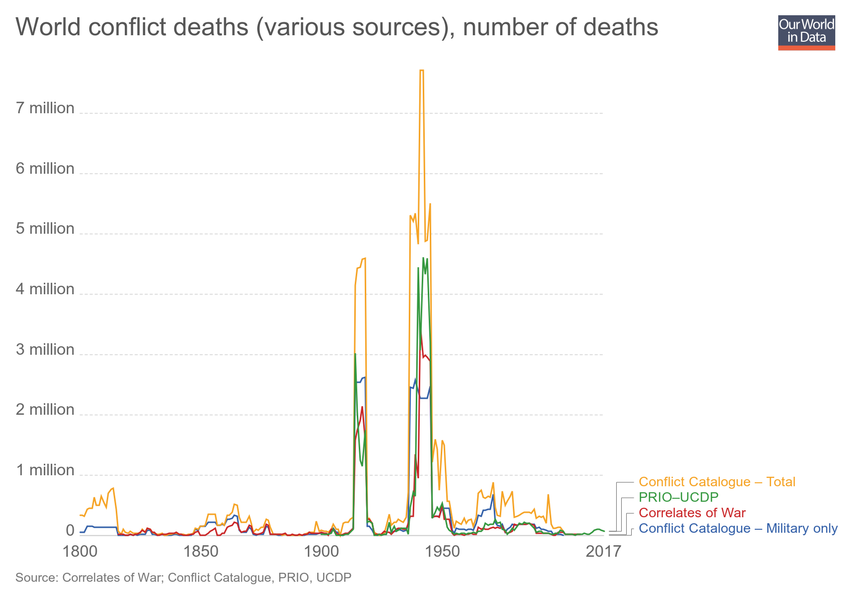
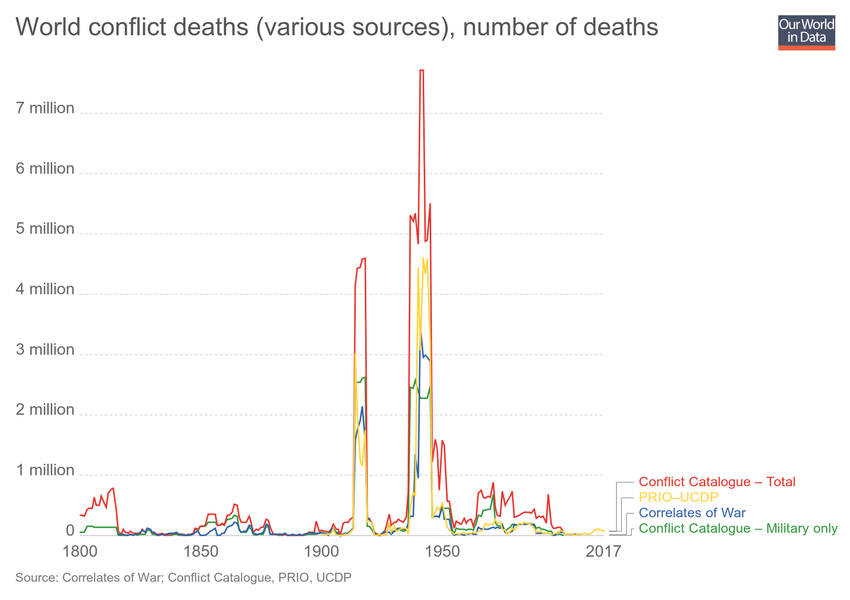
Updating chart world-conflict-deaths-various-sources

Changed region(s): [[0.0918, 0.12, 0.7035, 0.9], [0.7341, 0.78, 0.9788, 0.9]]

diff --git a/grapher/world-conflict-deaths-various-sources.html b/grapher/world-conflict-deaths-various-sources.html
@@ -1,4 +1,4 @@
-<!doctype html><html><head><meta name="viewport" content="width=device-width, initial-scale=1" /><title>World conflict deaths (various sources) - Our World in Data</title><meta name="description" content="An interactive visualization from Our World in Data." /><link rel="canonical" href="https://ourworldindata.org/grapher/world-conflict-deaths-various-sources" /><meta property="fb:app_id" content="1149943818390250" /><meta property="og:url" content="https://ourworldindata.org/grapher/world-conflict-deaths-various-sources" /><meta property="og:title" content="World conflict deaths (various sources)" /><meta property="og:description" content="An interactive visualization from Our World in Data." /><meta property="og:image" content="https://ourworldindata.org/grapher/exports/world-conflict-deaths-various-sources.png?v=3" /><meta property="og:image:width" content="850" /><meta property="og:image:height" content="600" /><meta property="og:site_name" content="Our World in Data" /><meta name="twitter:card" content="summary_large_image" /><meta name="twitter:site" content="@OurWorldInData" /><meta name="twitter:creator" content="@OurWorldInData" /><meta name="twitter:title" content="World conflict deaths (various sources)" /><meta name="twitter:description" content="An interactive visualization from Our World in Data." /><meta name="twitter:image" content="https://ourworldindata.org/grapher/exports/world-conflict-deaths-various-sources.png?v=3" /><style>
+<!doctype html><html><head><meta name="viewport" content="width=device-width, initial-scale=1" /><title>World conflict deaths (various sources) - Our World in Data</title><meta name="description" content="An interactive visualization from Our World in Data." /><link rel="canonical" href="https://ourworldindata.org/grapher/world-conflict-deaths-various-sources" /><meta property="fb:app_id" content="1149943818390250" /><meta property="og:url" content="https://ourworldindata.org/grapher/world-conflict-deaths-various-sources" /><meta property="og:title" content="World conflict deaths (various sources)" /><meta property="og:description" content="An interactive visualization from Our World in Data." /><meta property="og:image" content="https://ourworldindata.org/grapher/exports/world-conflict-deaths-various-sources.png?v=4" /><meta property="og:image:width" content="850" /><meta property="og:image:height" content="600" /><meta property="og:site_name" content="Our World in Data" /><meta name="twitter:card" content="summary_large_image" /><meta name="twitter:site" content="@OurWorldInData" /><meta name="twitter:creator" content="@OurWorldInData" /><meta name="twitter:title" content="World conflict deaths (various sources)" /><meta name="twitter:description" content="An interactive visualization from Our World in Data." /><meta name="twitter:image" content="https://ourworldindata.org/grapher/exports/world-conflict-deaths-various-sources.png?v=4" /><style>
         html, body {
             height: 100%;
             margin: 0;
@@ -20,8 +20,8 @@
         }
     </style><noscript><style>
                     figure { display: none !important; }
-                </style></noscript><link rel="stylesheet" href="https://ourworldindata.org/grapher/assets/commons.bundle.397229a8467cf53bfc99.css" /><link rel="preload" href="/grapher/data/variables/98008+98007+98006+98009.json?v=3" as="fetch" crossorigin /></head><body class="singleChart"><figure data-grapher-src="/grapher/world-conflict-deaths-various-sources"></figure><noscript id="fallback"><img src="/grapher/exports/world-conflict-deaths-various-sources.svg" /><p>Interactive visualization requires JavaScript</p></noscript><script src="https://cdn.polyfill.io/v2/polyfill.min.js?features=es6,fetch"></script><script src="https://ourworldindata.org/grapher/assets/commons.bundle.397229a8467cf53bfc99.js"></script><script src="https://ourworldindata.org/grapher/assets/charts.bundle.397229a8467cf53bfc99.js"></script><script>
-        var jsonConfig = {"id":3031,"map":{"projection":"World","colorSchemeLabels":[],"colorSchemeValues":[],"customNumericColors":[],"customCategoryColors":{},"customCategoryLabels":{},"customHiddenCategories":{}},"tab":"chart","slug":"world-conflict-deaths-various-sources","type":"LineChart","title":"World conflict deaths (various sources)","xAxis":{"scaleType":"linear"},"yAxis":{"scaleType":"linear"},"minTime":1800,"version":3,"hasMapTab":false,"stackMode":"absolute","dimensions":[{"display":{},"property":"y","variableId":98008},{"display":{},"property":"y","variableId":98007},{"display":{},"property":"y","variableId":98006},{"display":{},"property":"y","variableId":98009}],"entityType":"number/rate","isAutoSlug":true,"hasChartTab":true,"isPublished":true,"selectedData":[{"index":0,"entityId":38211},{"index":1,"entityId":38211},{"index":2,"entityId":38211},{"index":3,"entityId":38211}],"addCountryMode":"change-country"};
+                </style></noscript><link rel="stylesheet" href="https://ourworldindata.org/grapher/assets/commons.bundle.397229a8467cf53bfc99.css" /><link rel="preload" href="/grapher/data/variables/98008+98007+98006+98009.json?v=4" as="fetch" crossorigin /></head><body class="singleChart"><figure data-grapher-src="/grapher/world-conflict-deaths-various-sources"></figure><noscript id="fallback"><img src="/grapher/exports/world-conflict-deaths-various-sources.svg" /><p>Interactive visualization requires JavaScript</p></noscript><script src="https://cdn.polyfill.io/v2/polyfill.min.js?features=es6,fetch"></script><script src="https://ourworldindata.org/grapher/assets/commons.bundle.397229a8467cf53bfc99.js"></script><script src="https://ourworldindata.org/grapher/assets/charts.bundle.397229a8467cf53bfc99.js"></script><script>
+        var jsonConfig = {"id":3031,"map":{"projection":"World","colorSchemeLabels":[],"colorSchemeValues":[],"customNumericColors":[],"customCategoryColors":{},"customCategoryLabels":{},"customHiddenCategories":{}},"tab":"chart","slug":"world-conflict-deaths-various-sources","type":"LineChart","title":"World conflict deaths (various sources)","xAxis":{"scaleType":"linear"},"yAxis":{"scaleType":"linear"},"minTime":1800,"version":4,"hasMapTab":false,"stackMode":"absolute","dimensions":[{"display":{},"property":"y","variableId":98008},{"display":{},"property":"y","variableId":98007},{"display":{},"property":"y","variableId":98006},{"display":{},"property":"y","variableId":98009}],"entityType":"number/rate","hasChartTab":true,"isPublished":true,"selectedData":[{"color":"#34983f","index":0,"entityId":38211},{"color":"#e6332e","index":1,"entityId":38211},{"color":"#3360a9","index":2,"entityId":38211},{"color":"#ffd53e","index":3,"entityId":38211}],"addCountryMode":"change-country"};
         var figure = document.getElementsByTagName("figure")[0];
         try {
             window.App = {};
